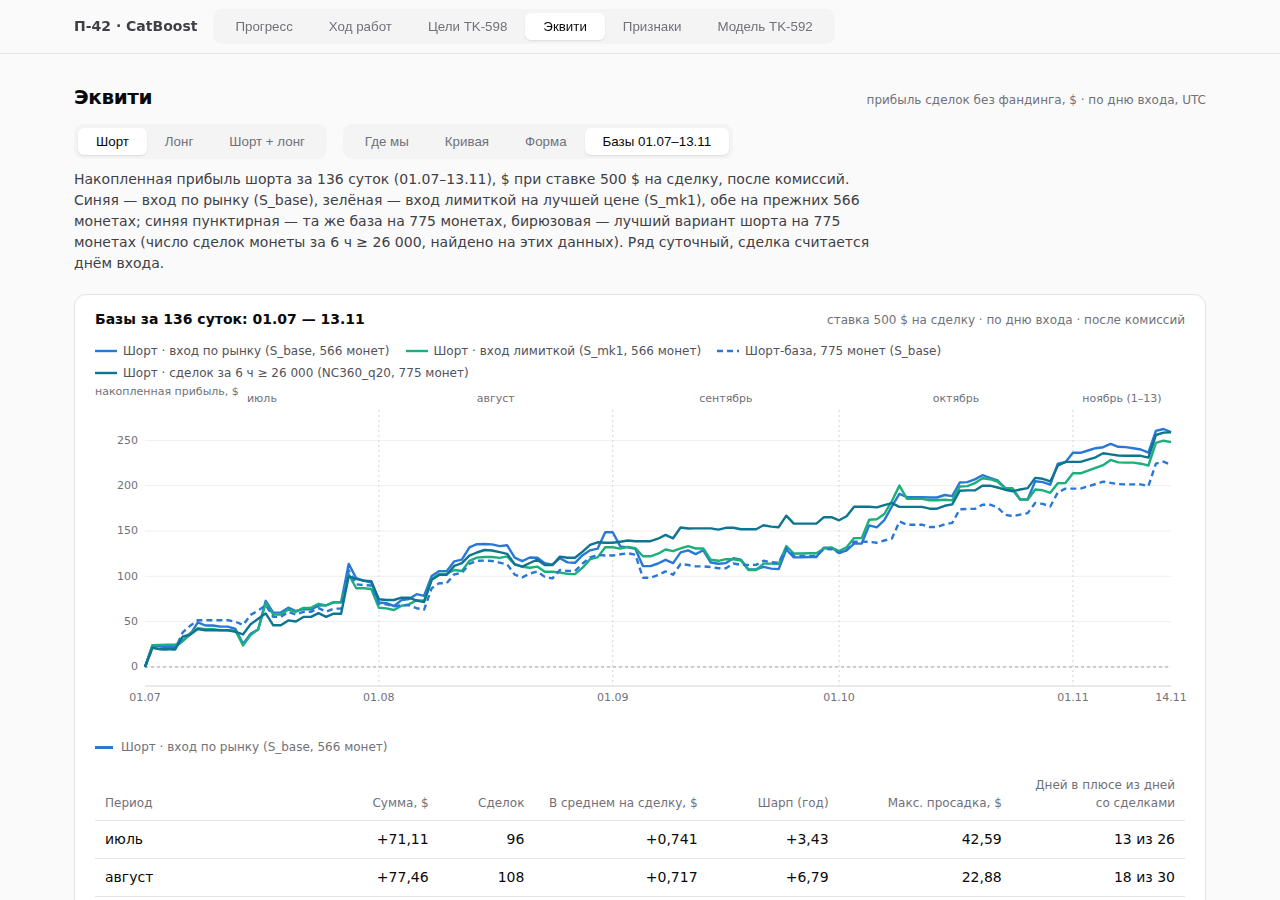
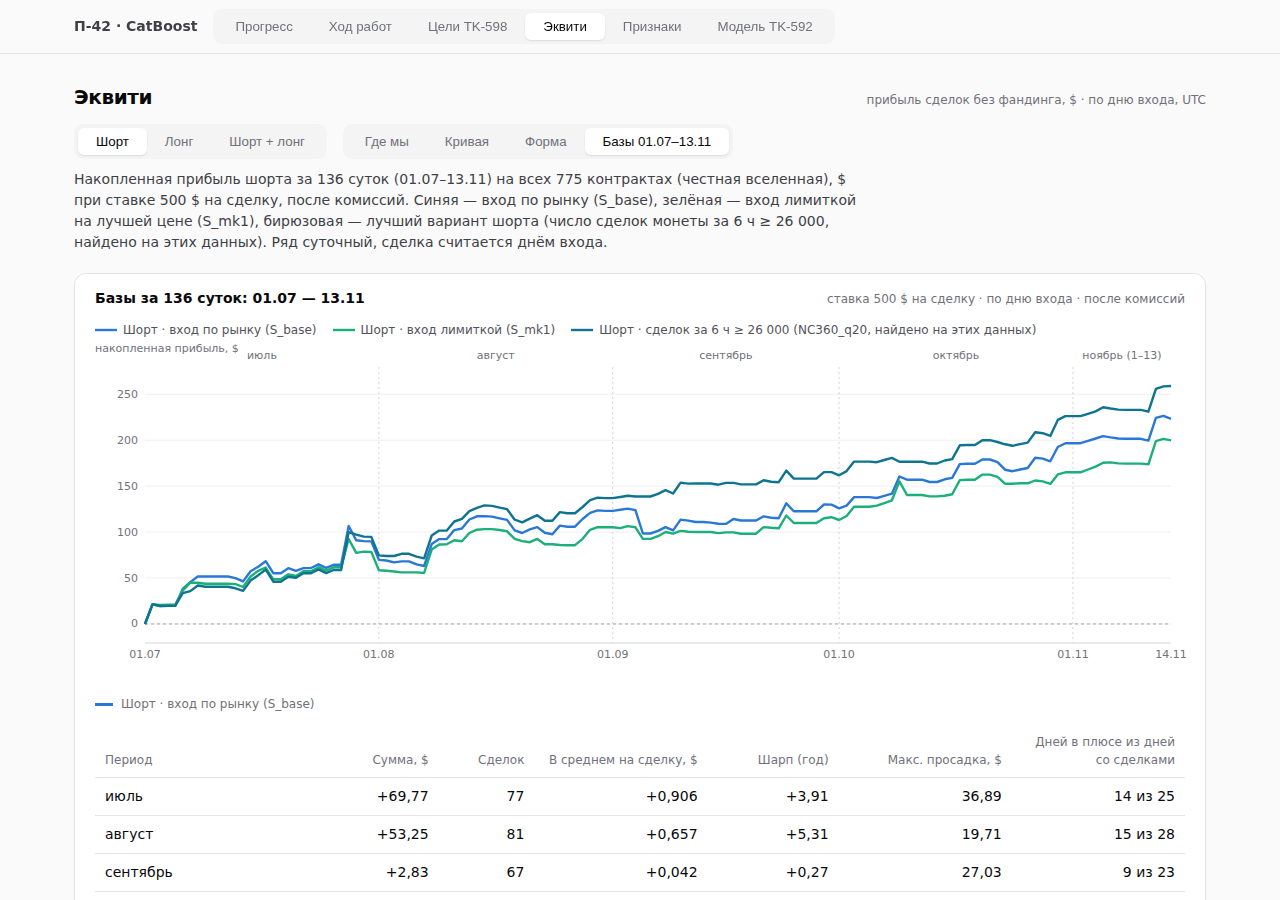
TK-645 v2: «Где мы» и «Базы» на 775 контрактах — пять вариантов вперёд, L_mk2, TK-641/642/643 сделаны; клик-тест Софии 1280/390, снимки

diff --git a/tools/p42/tk624_check.py b/tools/p42/tk624_check.py
@@ -215,7 +215,7 @@ for s, d in zip(P["stages"], Wd["progress"]["stages"]):
     eq(w + " дальше", d["next"], s["next"])
     eq(w + " вопрос", d["answers"], s["answers"])
 eq("DOM шапка хода работ", Wd["progress"]["headline"], P["headline"])
-eq("этапы (TK-645): идут TK-641…644; TK-637…625 закрыты (группа «Сделано 20.11»)", ([s["id"] for s in P["stages"] if s["status"] == "running"], [(s["id"], s["status"]) for s in P["stages"] if s.get("group") == "Сделано 20.11"]), (["TK-641", "TK-642", "TK-643", "TK-644"], [("TK-637", "done"), ("TK-639", "done"), ("TK-638", "done"), ("TK-636", "done"), ("TK-634", "done"), ("TK-633", "done"), ("TK-626", "done"), ("TK-625", "done")]))
+eq("этапы (TK-645): идёт только TK-644; TK-643…625 закрыты (группа «Сделано 20.11»)", ([s["id"] for s in P["stages"] if s["status"] == "running"], [(s["id"], s["status"]) for s in P["stages"] if s.get("group") == "Сделано 20.11"]), (["TK-644"], [("TK-643", "done"), ("TK-642", "done"), ("TK-641", "done"), ("TK-637", "done"), ("TK-639", "done"), ("TK-638", "done"), ("TK-636", "done"), ("TK-634", "done"), ("TK-633", "done"), ("TK-626", "done"), ("TK-625", "done")]))
 eq("этапы: TK-615…623 на месте (группа «Сделано 19.11», TK-645)", [s["id"] for s in P["stages"] if s.get("group") == "Сделано 19.11"], ["TK-599", "TK-615", "TK-616", "TK-617", "TK-618", "TK-619", "TK-620", "TK-621", "TK-622", "TK-623"])
 eq("этапы: точки вперёд", [t["t"].split(" ")[0] for t in next(s for s in P["stages"] if s["id"] == "30.11–31.03")["steps"]], ["30.11", "31.12", "31.01", "28.02", "31.03.2027"])
 

diff --git a/kb/task/TK-645.md b/kb/task/TK-645.md
@@ -4,7 +4,7 @@ type: task
 status: done
 title: "TK-645 — сайты :8090 и :8091 под текущее состояние; лучшие варианты лонга и шорта в «Эквити»"
 date: 2026-11-20
-links: [page-8090-ml, P-42, TK-637, TK-638, TK-639, TK-641, G-022, tools/p42/tk645_best.py, docs/findings/tk645-site-refresh-2026-11-20/]
+links: [page-8090-ml, P-42, TK-637, TK-638, TK-639, TK-641, TK-642, TK-643, G-022, tools/p42/tk645_best.py, docs/findings/tk645-site-refresh-2026-11-20/]
 supersedes: []
 ---
 
@@ -22,22 +22,13 @@ supersedes: []
 | «Цели TK-598», «Модель TK-592» | — | исторические, не менялись |
 | kb :8091 | TK-638 «running», TK-633/634/636/639 «не влито», G-022 без холда, P-42 без L_n24 и аудита; нет карточек TK-635, 637, 641…644 | поправлены; новые карточки; `kb_deploy.sh` |
 
-Проверка (София, 1280 и 390): `tk593_shots` / `tk593_check.py` 4221 / 0; `tk624_shots` / `tk624_check.py` 1328 / 0; `tk606_check`, `tk613_check` (84 / 76), `tk638_shots`, `tk639_shots`, `kb_shots` 31 / 31 — ошибок консоли 0; `tk624_bpscan` — 0 «бп» на 20 маршрутах. Снимки — [[docs/findings/tk645-site-refresh-2026-11-20/]] (выборка 22 файла).
+Проверка (София, 1280 и 390, v2): `tk593_shots` / `tk593_check.py` 4221 / 0; `tk624_shots` / `tk624_check.py` 1366 / 0; `tk606_check`, `tk613_check` (84 / 76), `tk638_shots`, `tk639_shots`, `kb_shots` 31 / 31 — ошибок консоли 0; `tk624_bpscan` — 0 «бп» на 20 маршрутах. Снимки — [[docs/findings/tk645-site-refresh-2026-11-20/]] (выборка 22 файла).
 
 Числа новых кривых (01.07–13.11, 500 $, 775 монет): L_n24 +294,31 $ / 181 сделка, шарп 5,11; NC360_q20 +258,91 $ / 252, шарп 5,40; базы 775 — лонг +193,17 $ / 428 (1,96), шорт +223,14 $ / 319 (4,12).
 
+**v2 (20.11): «Где мы» и «Базы» целиком на 775 контрактах.** Таблица «Где мы» — `S_base`, `S_mk1`, `L_base`, `L_n24`, `L_mk2`, `NC360_q20` (775; S_mk1 +199,77 $ / 272, шарп 4,18; L_mk2 +180,83 $ / 327, шарп 3,41 — выходы G-626c); «Базы»: шорт `S_base S_mk1 NC360_q20`, лонг `L_base L_n24 L_mk2`, обе — базы 775 и их сумма; 566-линий нет. Тексты «Где мы» и «Ход работ»: пять вариантов вперёд (α 0,020 / 0,01 / 0,01 / 0,005 / 0,005, `1d14575e2`, `962cc79d9`, `4629c0a3d`), кандидат L_mk2; TK-641, TK-642, TK-643 — «Сделано 20.11» (числа из карточек), идёт только TK-644. Снимки `where-top`, `bases-*-top`, `progress-top` заменены.
+
 ## Дальше
 
-- В `master` не вливать до вердикта проверяющего. Карточки TK-641…644 созданы здесь; если исполнители заведут свои — при слиянии брать их версию.
-- Главная таблица «Где мы» и базы S_base / S_mk1 / L_base в «Базах» остаются на 566 монетах (как TK-624); перевод основной таблицы на 775 — отдельной задачей.
-
-## Передача (20.11, контекст 260 тыс.): перевод «Где мы» и «Базы» на 775 — начато, не закончено
-
-Задача координатора: «полностью» — основная таблица «Где мы» и линии «Базы» на 775 контрактах (только готовые выходы). master влит (`da536dd6c`, карточки TK-641/642 — из master). Ряды 775 есть все: базы U2 (TK-621), S_mk1 `cd0838447e287` и L_mk2 `cf280a1e8fc7c` (`/data/p42-tk626/gmk/out/<окно>/`), L_n24, NC360_q20 — 566-линий не остаётся.
-
-**Сделано в коде (WIP-коммит):** `tk645_best.py` + клетки `S_mk775` (+199,77 $ / 272, шарп 4,18) и `L_mk2` (+180,83 $ / 327, шарп 3,41) — прогон на srv сошёлся; шаблон: `BS_LINES` short `S_b775 S_mk775 S_nc360`, long `L_b775 L_n24 L_mk2`, both `L_b775 S_b775 SL` (SL = сумма баз 775), `BS_NAME` без «566/775» в именах, `BS_DESC` и источник в примечании — 775; `tk624_check.py` (LINES/NAMES/COL/ACC_TOT/ACC_M1, SL из 775, примечание по линиям вида), `tk593_page.py` ACCEPTED_BASES, схема `where.rows` (+S_mk775, L_mk2).
-
-**Осталось:**
-1. `ml_progress.json`: `where.rows` = `S_b775, S_mk775, L_b775, L_n24, L_mk2, S_nc360`, имена = `BS_NAME` шаблона дословно (проверка легенды и подсказок); `table_title` «… · 775 контрактов»; `table_note` без «первые три строки — 566»; `lead` и «Что дальше» — пять вариантов вперёд (S_base 0,020 / S_mk1 0,01 / L_base 0,01 / L_n24 0,005 / L_mk2 0,005, `tk641-frozen.json`, коммит `4629c0a3d`, В-167); кандидат L_mk2 (+180,83 $ / 327, шарп 3,41, 5 из 5 мес., 0 стопов); пункт аудита: TK-641 и TK-642 готовы (TK-642: ни одно правило не различимо, `docs/findings/p42-owner-rules-recheck-2026-11-20.md`), идут TK-643/644.
-2. Этапы: TK-641, TK-642 → `done`, группа «Сделано 20.11» (числа из их отчётов); «30.11–31.03» и «Лонг» — пять вариантов; заголовок; в `tk624_check.py` строка «этапы (TK-645)»: идут только TK-643, TK-644 и список «Сделано 20.11».
-3. `bash tools/p42/ml_page_update.sh` → клик-тест Софии (`/root/arb-settings-test/tk645/tk645_run.sh`, юнит `systemd-run`; снова залить изменённые js не нужно) → `tk624_check.py` / `tk593_check.py` на srv (как выше, DOM из Софии) → снимки `bases-*-top`, `where-top` заменить в `docs/findings/tk645-site-refresh-2026-11-20/` → коммит, `kb_deploy.sh`, отчёт координатору ≤ 8 строк с SHA.
+- В `master` не вливать до вердикта проверяющего. При слиянии карточки TK-641…644 — версия master.
+- TK-644 закроется — этап в «Сделано 20.11» и пункт аудита в «Что дальше» (`ml_progress.json`, строка «этапы (TK-645)» в `tk624_check.py`).
